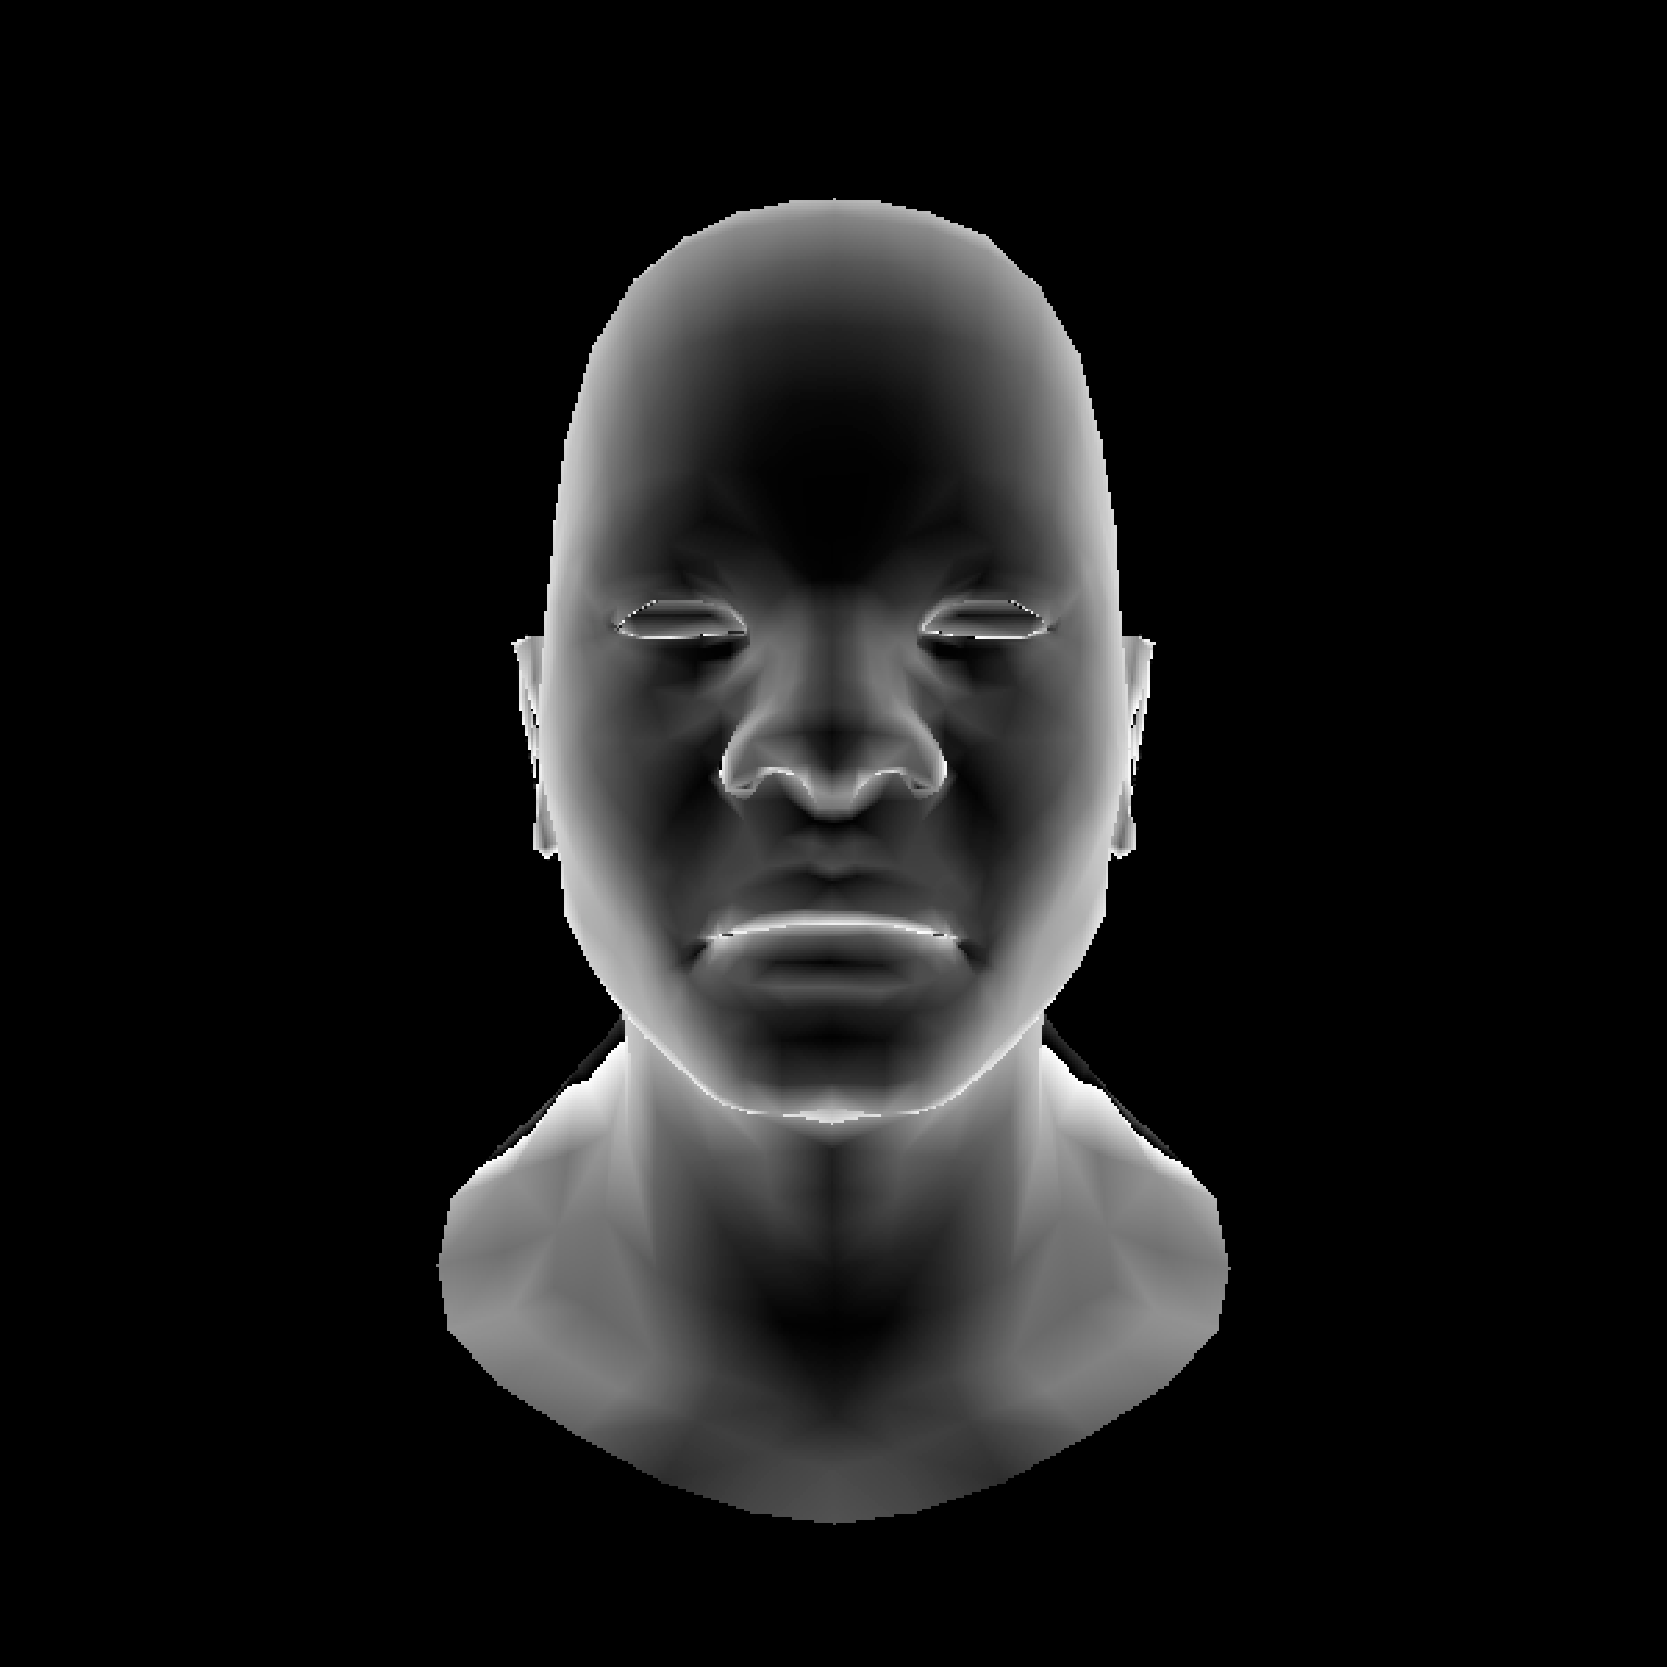
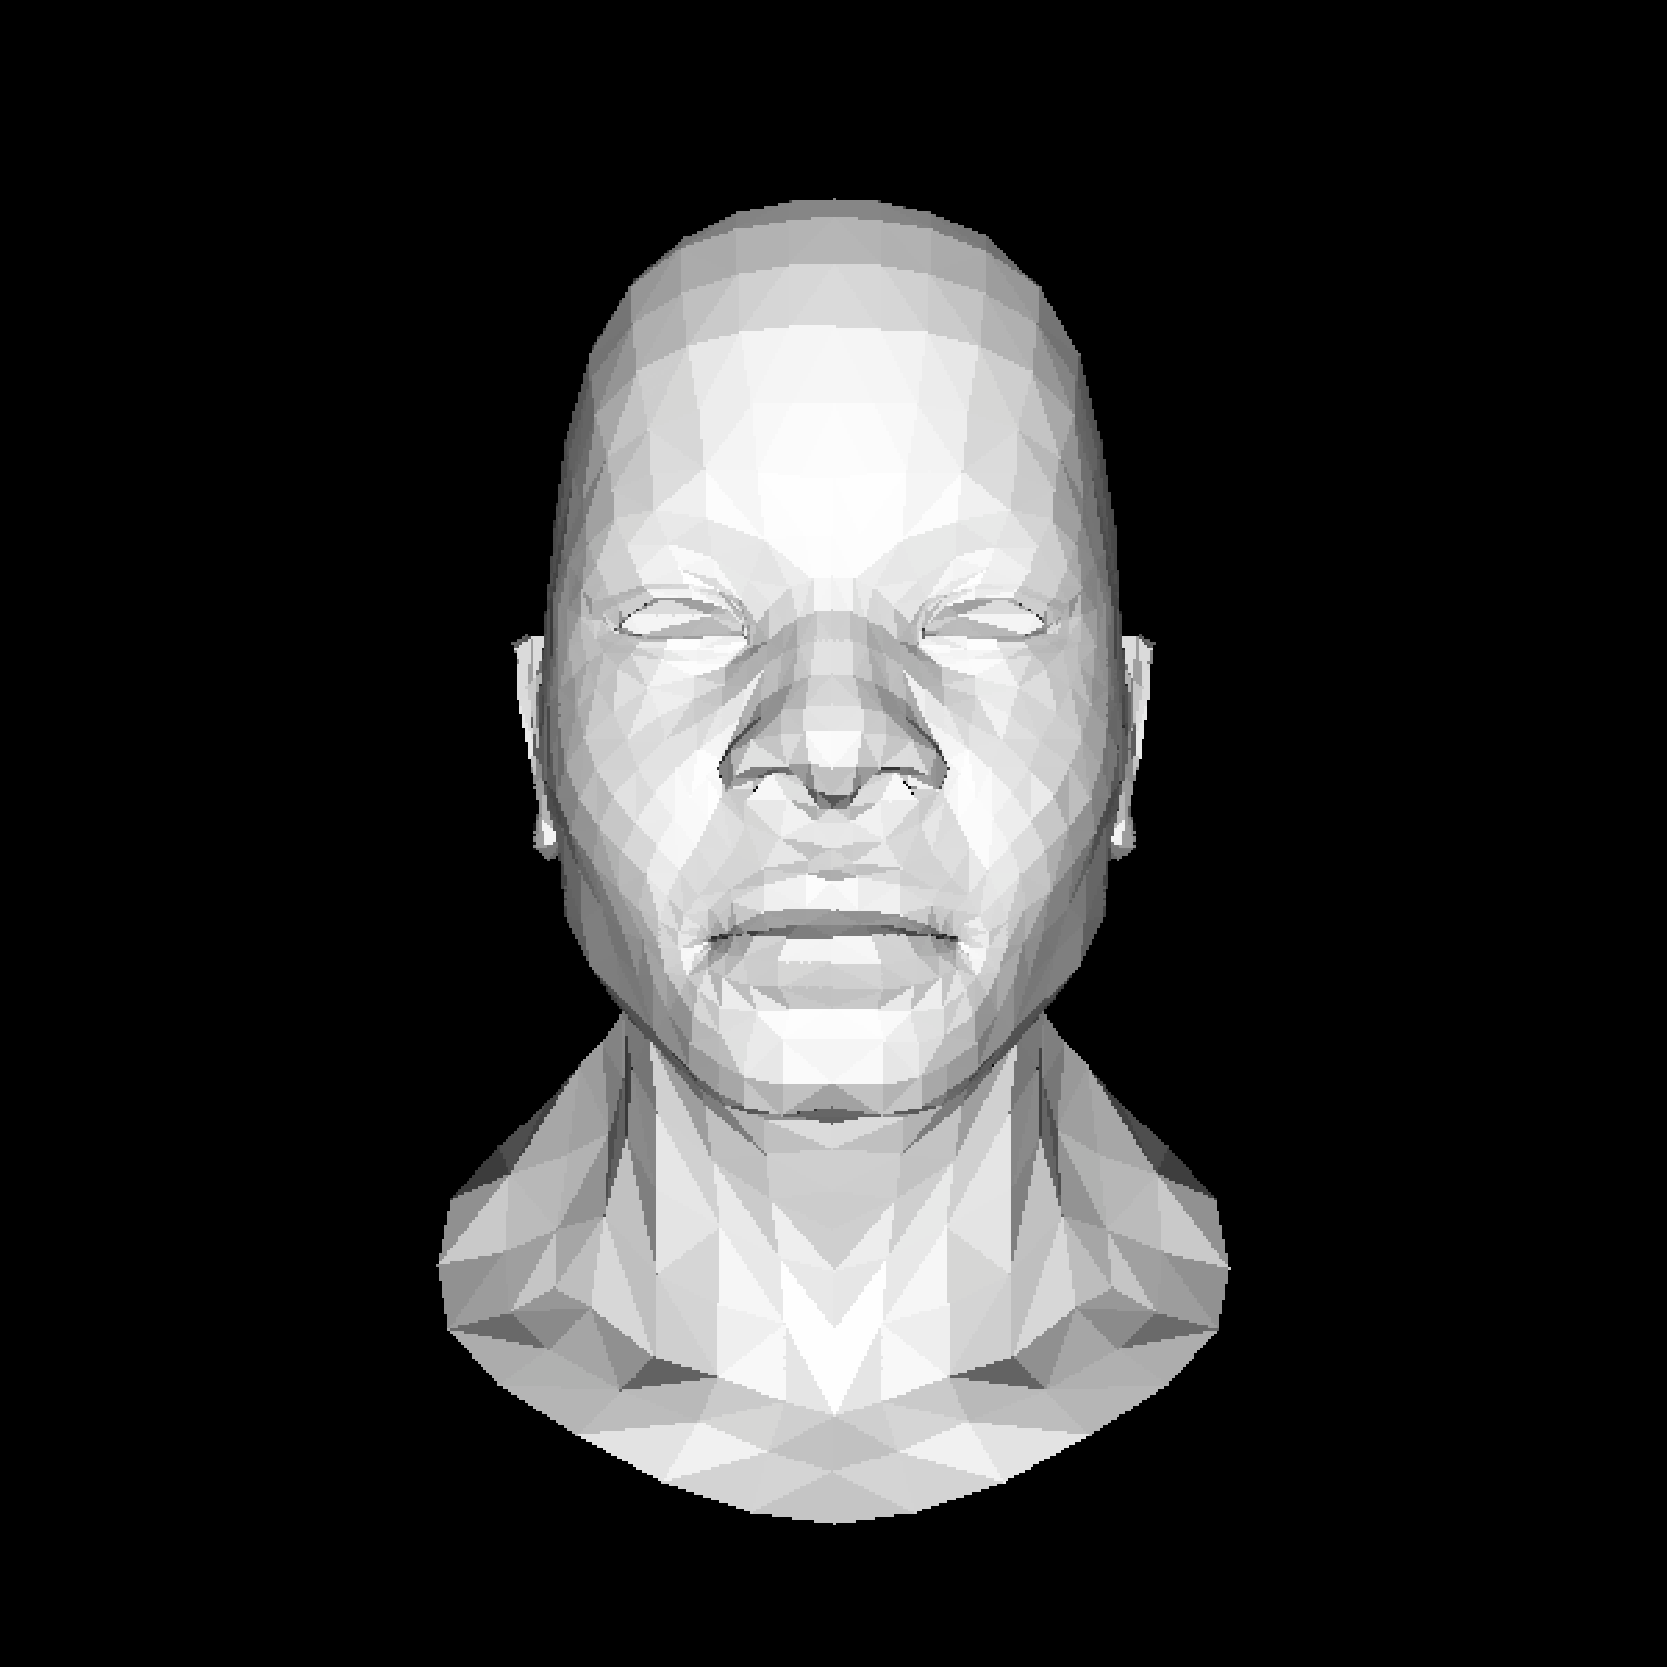
Fix Chapter 5 Gouraud shading

Changed region(s): [[0.2496, 0.0936, 0.7487, 0.9358]]

diff --git a/src/scenes.cpp b/src/scenes.cpp
@@ -249,32 +249,34 @@ void draw_gouraud_shading(const std::string& filename)
     TGAImage image{width, height, TGAImage::RGB};
     const Vector3f light_direction{0, 0, -1};
     const Vector3f camera{0, 0, 3};
+    const Vector3f center{0, 0, 0};
     std::vector<float> depth_buffer(width * height, std::numeric_limits<float>::lowest());
     
-    const Matrix projection_matrix = projection(camera.z);
+    const auto view_matrix = look_at(camera, center, Vector3f{0, 1, 0});
+    const auto projection_matrix = projection(float((camera - center).length()));
     const auto viewport_matrix = viewport(width / 8, height / 8, width * 3 / 4, height * 3 / 4, depth);
-    const auto projection_transform = viewport_matrix * projection_matrix;
-    
+    const auto scene_transform = viewport_matrix * projection_matrix * view_matrix;
+
     for (int i = 0; i < model.number_faces(); ++i)
     {
         const auto& face = model.face(i);
 
         std::array<Vector3f, 3> world_coordinates;
         std::array<Vector3i, 3> screen_coordinates;
-        std::array<float, 3> intensities;
         for (int j = 0; j < 3; ++j)
         {
             world_coordinates[j] = model.vertex(face[j]);
-            screen_coordinates[j] = cast<int>(homogeneous_to_cartesian(projection_transform * cartesian_to_homogeneous(world_coordinates[j])));
-            intensities[j] = float(dot(model.normal(i, j), light_direction));
+            screen_coordinates[j] = cast<int>(homogeneous_to_cartesian(scene_transform * cartesian_to_homogeneous(world_coordinates[j])));
         }
 
         Vector3f normal = cross(world_coordinates[2] - world_coordinates[0], world_coordinates[1] - world_coordinates[0]);
         normal.normalize();
-        double intensity = dot(normal, light_direction);
+        float intensity = float(dot(normal, light_direction));
         
         if (intensity > 0)
         {
+            std::array<float, 3> intensities;
+            std::fill(intensities.begin(), intensities.end(), intensity);
             fill_triangle_gouraud(screen_coordinates, intensities, depth_buffer, image);
         }
     }
@@ -296,8 +298,8 @@ void draw_look_at(const std::string& filename)
     const Vector3f center{0, 0, 0};
     std::vector<float> depth_buffer(width * height, std::numeric_limits<float>::lowest());
     
-    const Matrix view_matrix = look_at(camera, center, Vector3f{0, 1, 0});
-    const Matrix projection_matrix = projection(float((camera - center).length()));
+    const auto view_matrix = look_at(camera, center, Vector3f{0, 1, 0});
+    const auto projection_matrix = projection(float((camera - center).length()));
     const auto viewport_matrix = viewport(width / 8, height / 8, width * 3 / 4, height * 3 / 4, depth);
     const auto scene_transform = viewport_matrix * projection_matrix * view_matrix;
     
@@ -342,8 +344,8 @@ void draw_our_gl(const std::string& filename, ShadersOptions shader_choice)
     const Vector3f center{0, 0, 0};
     std::vector<float> depth_buffer(width * height, std::numeric_limits<float>::lowest());
     
-    const Matrix view_matrix = look_at(camera, center, Vector3f{0, 1, 0});
-    const Matrix projection_matrix = projection(float((camera - center).length()));
+    const auto view_matrix = look_at(camera, center, Vector3f{0, 1, 0});
+    const auto projection_matrix = projection(float((camera - center).length()));
     const auto viewport_matrix = viewport(width / 8, height / 8, width * 3 / 4, height * 3 / 4, depth);
     const auto model_view_projection_transform = projection_matrix * view_matrix;
     const auto scene_transform = viewport_matrix * model_view_projection_transform;

diff --git a/README.md b/README.md
@@ -19,7 +19,7 @@ Note that the implementation was incremental; therefore a posterior image likely
 A brief summary of the images generated and the algorithms implemented:
 
 
-1. __Wire frame model__: draw lines using the [Bresenham's Line Algorithm](https://en.wikipedia.org/wiki/Bresenham%27s_line_algorithm) between the vertices of the triangles of the model;
+1. __Wire frame model__: draw lines between the vertices of the triangles of the model using the [Bresenham's Line Algorithm](https://en.wikipedia.org/wiki/Bresenham%27s_line_algorithm);
 
 2. __Filled triangles__: fill the triangles with a random color by drawing horizontal lines between the triangle left and right ends;
 
